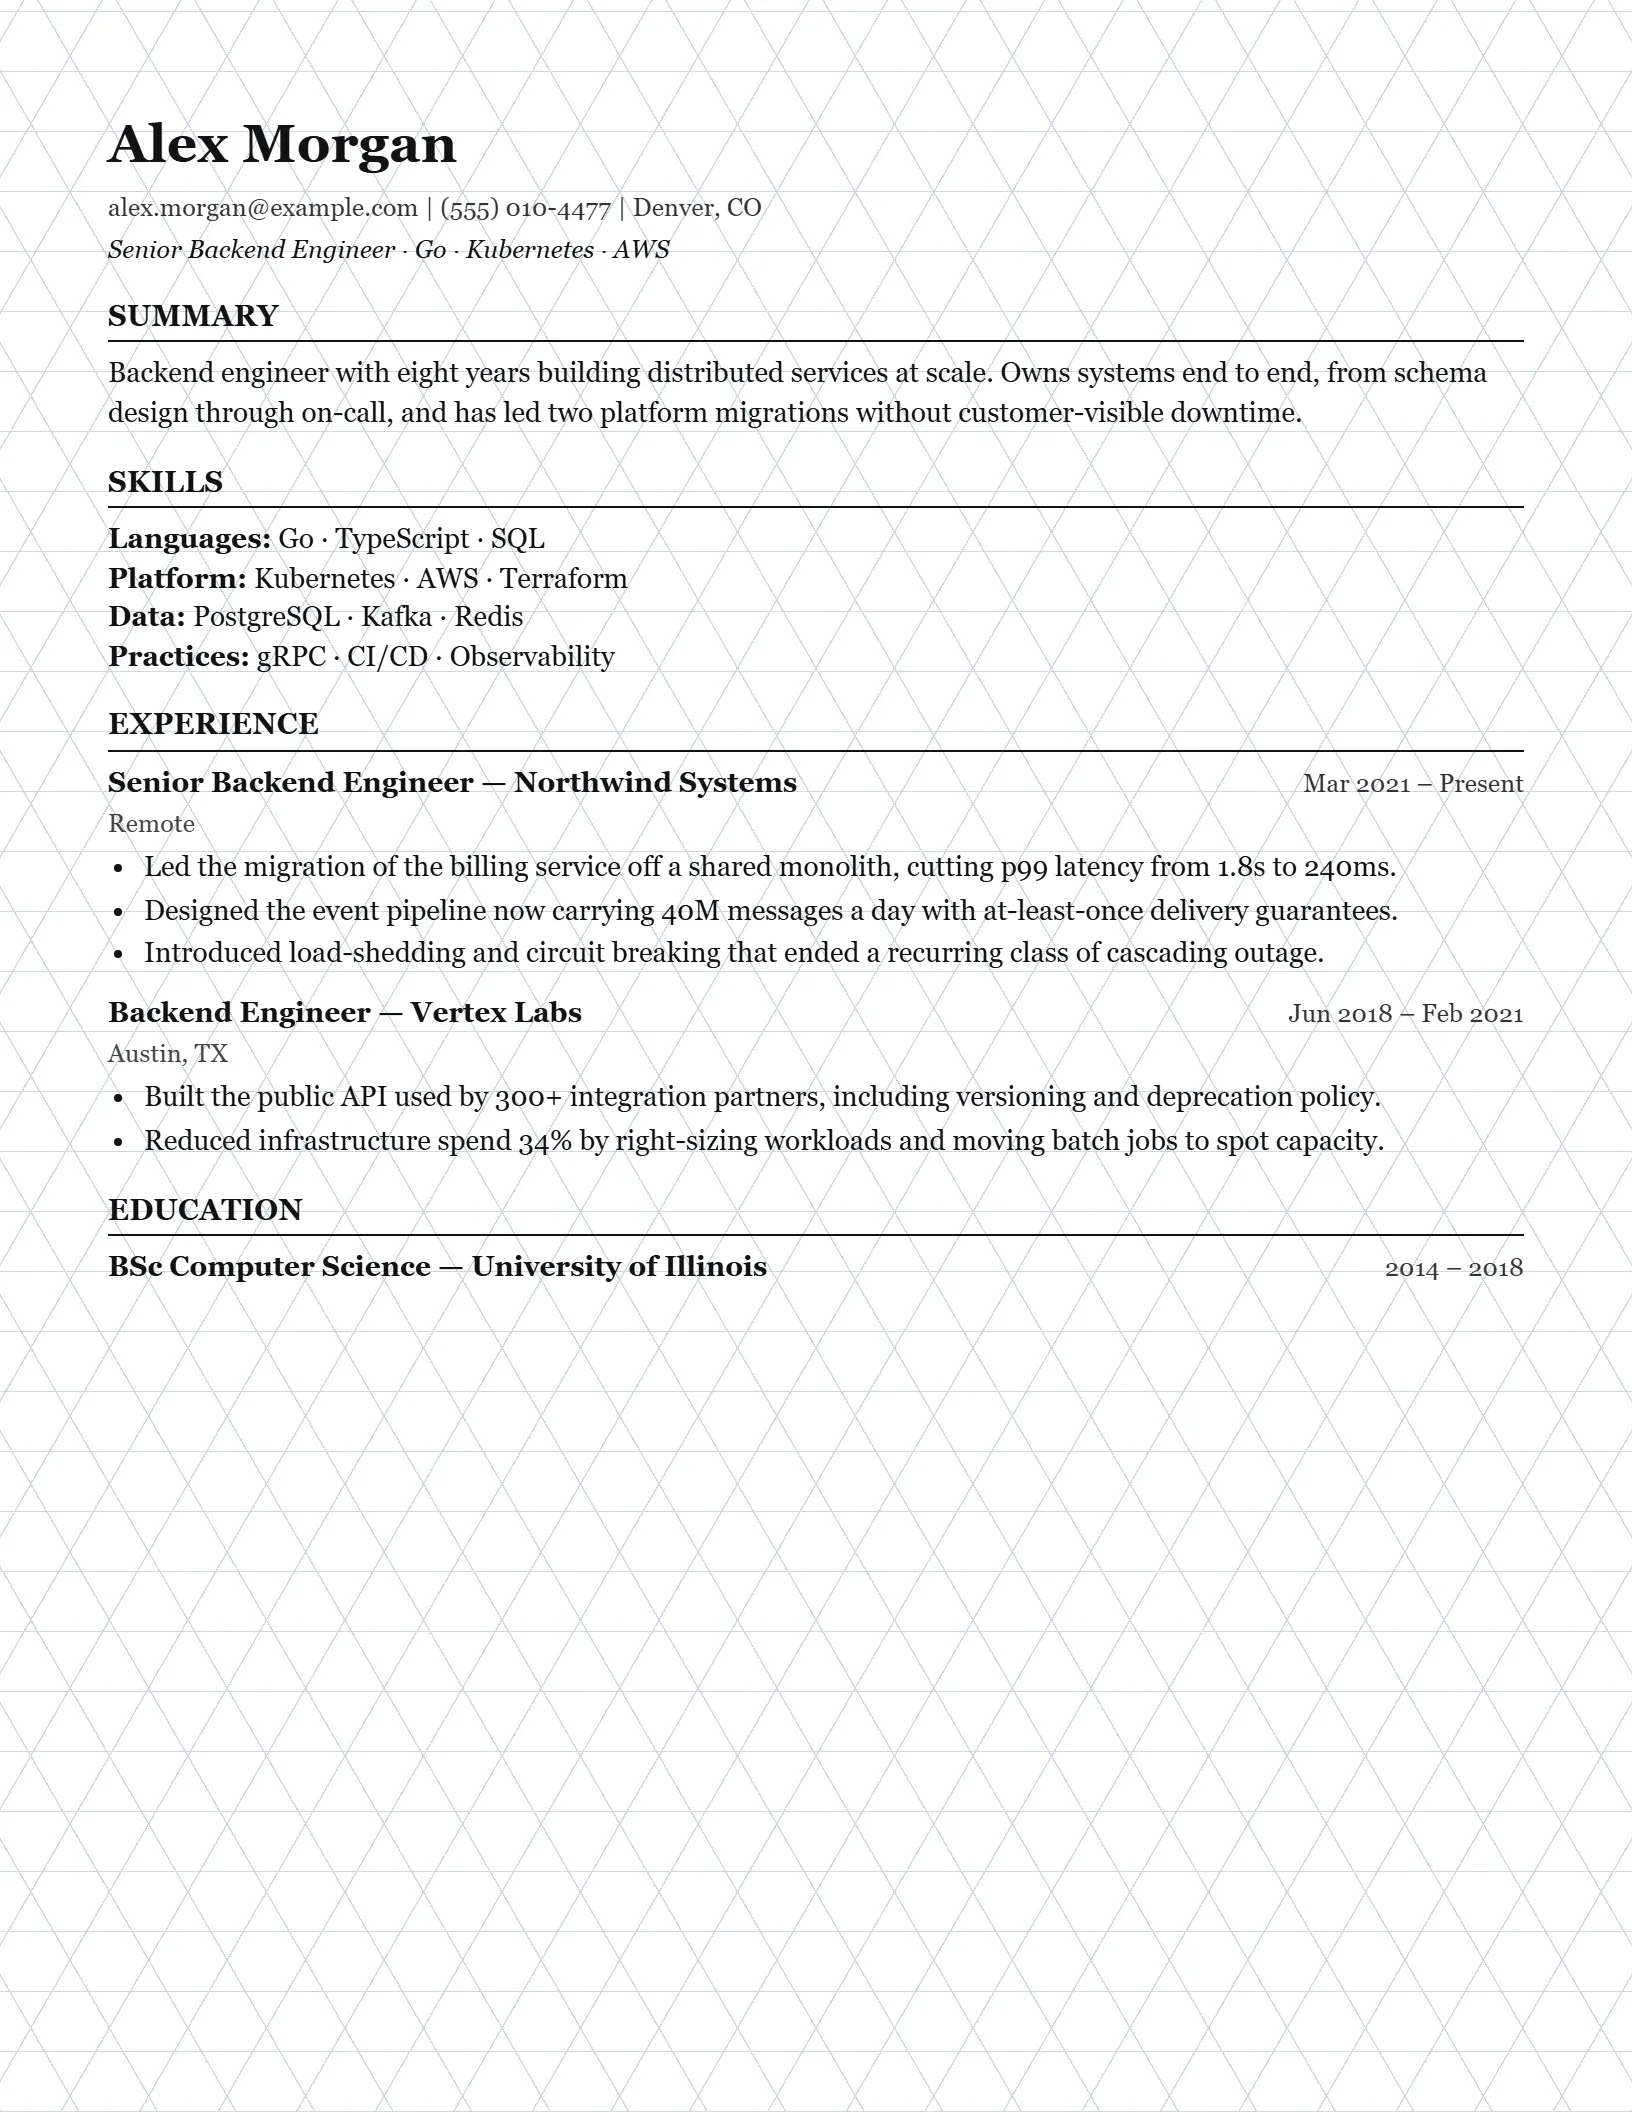
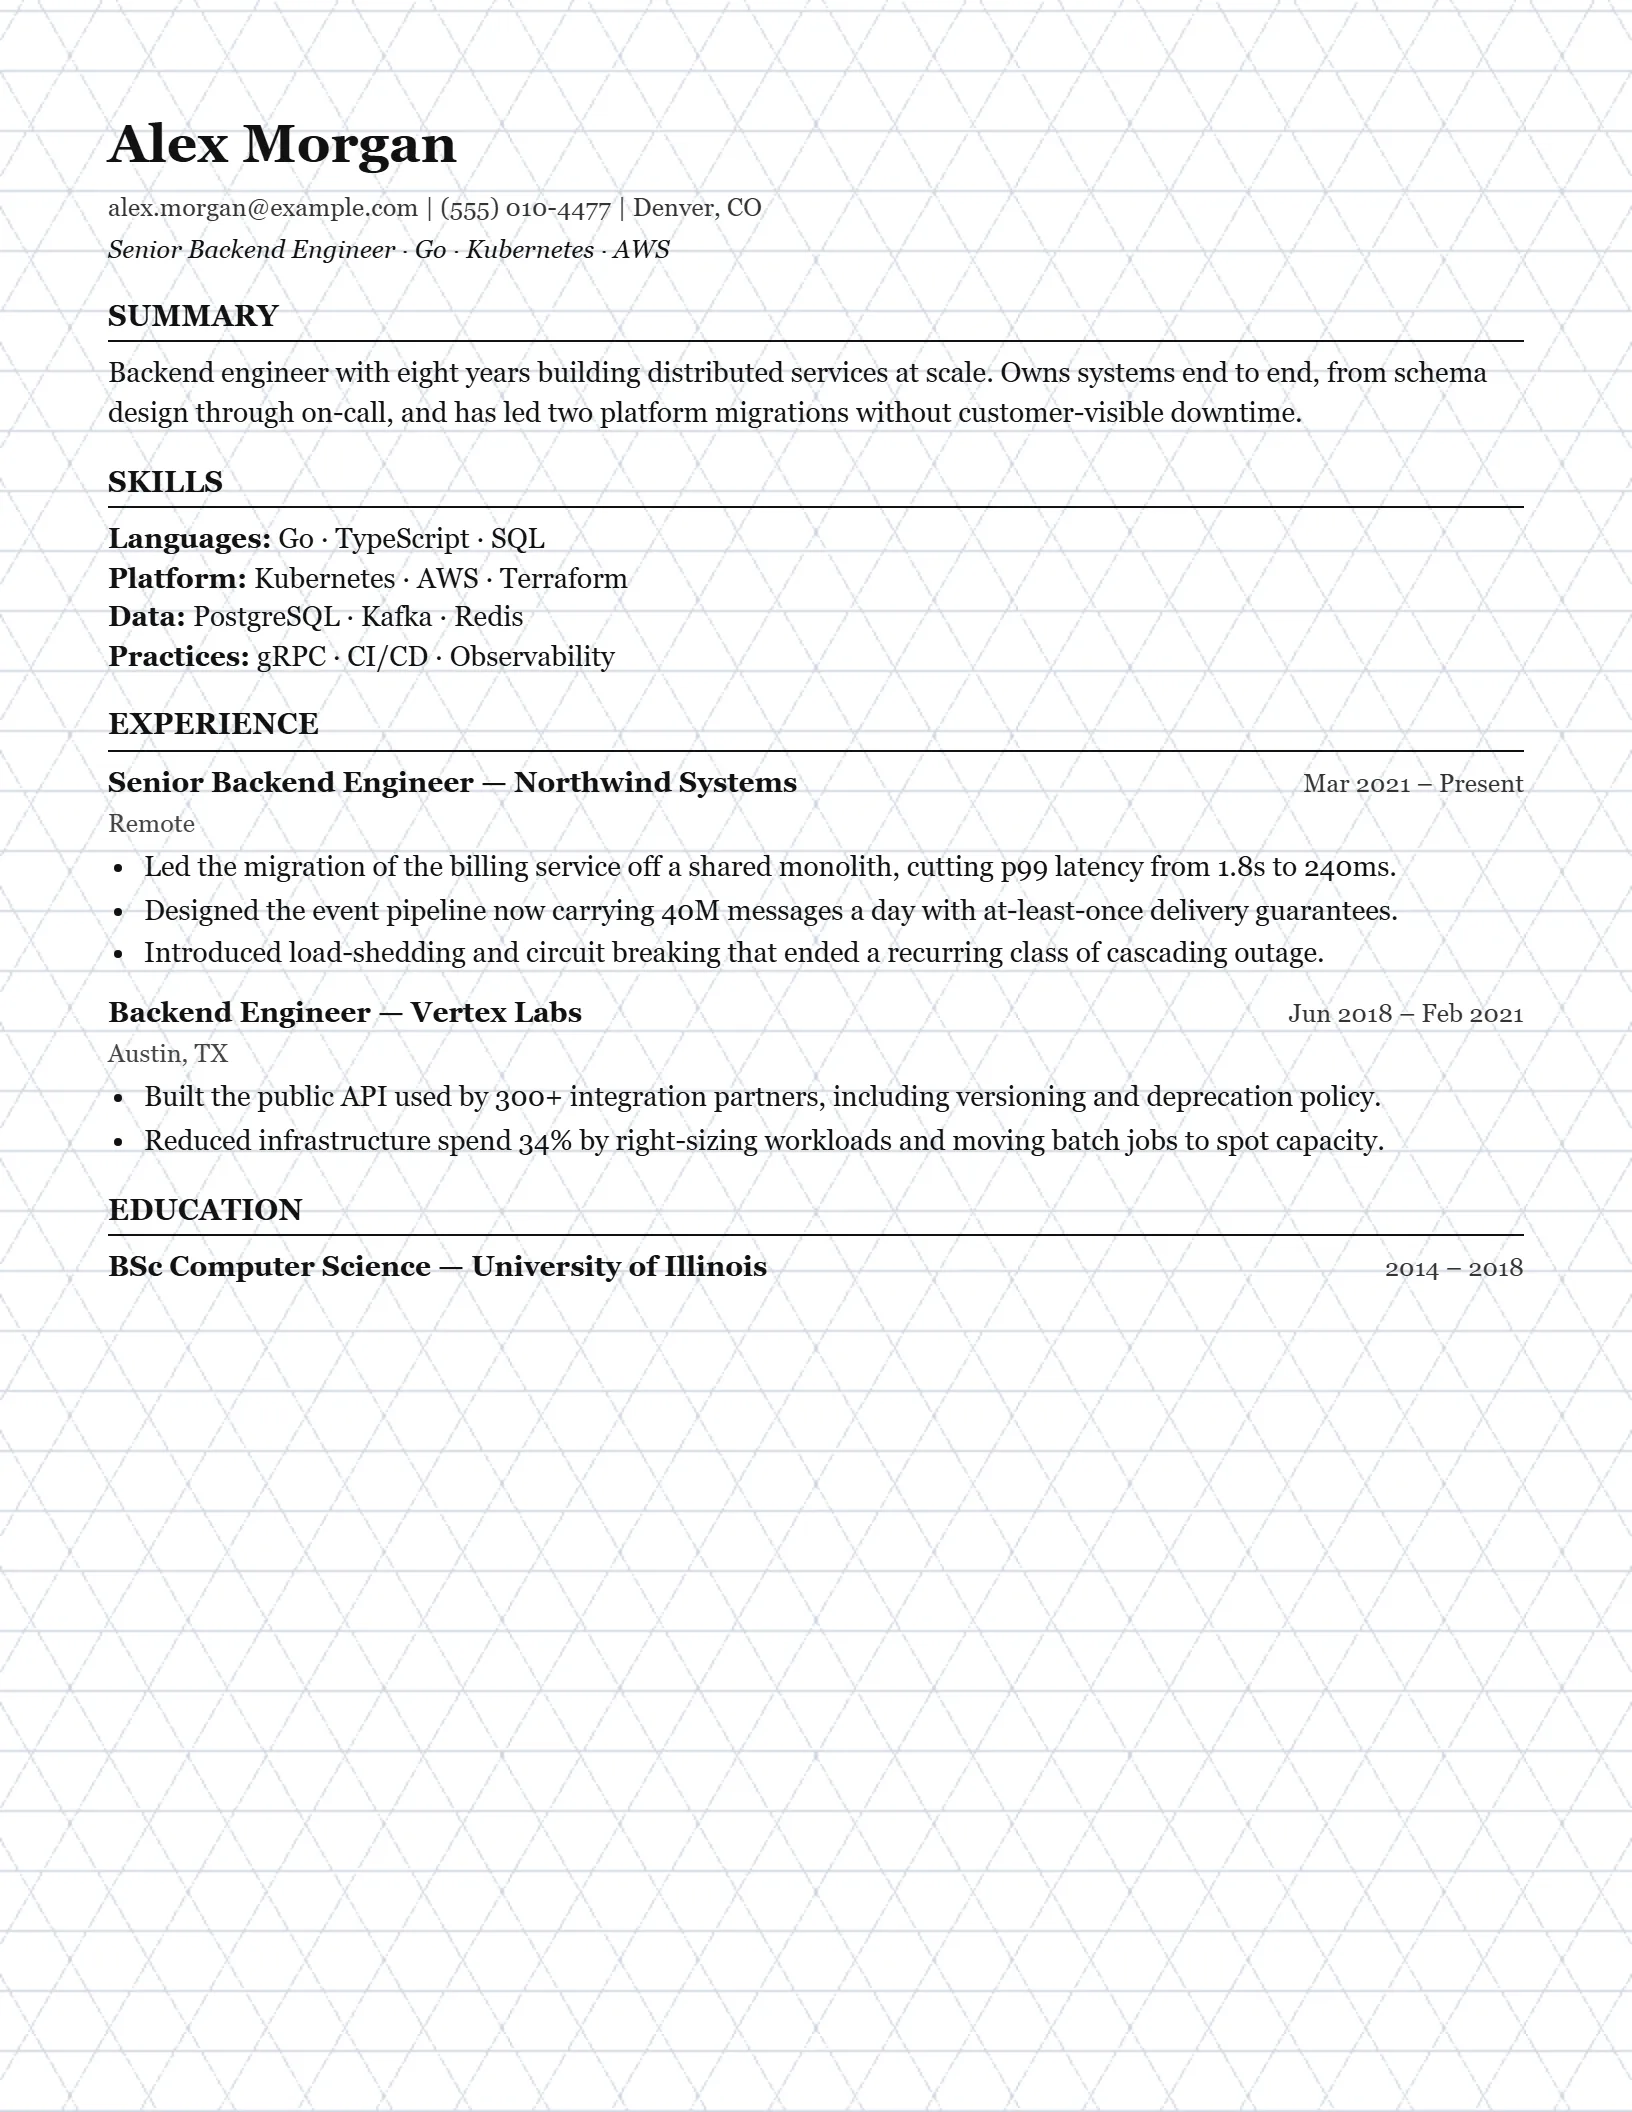
Refactor code structure for improved readability and maintainability

diff --git a/lib/resume-backgrounds.ts b/lib/resume-backgrounds.ts
@@ -12,7 +12,14 @@
  * resumes -- which is exactly what the template default exists to prevent.
  */
 
-export type BackgroundCategory = 'plain' | 'dots' | 'geometric' | 'lines' | 'accent';
+export type BackgroundCategory =
+  | 'plain'
+  | 'tint'
+  | 'dots'
+  | 'geometric'
+  | 'lines'
+  | 'accent'
+  | 'dark';
 
 export interface ResumeBackground {
   key: string;
@@ -23,21 +30,28 @@ export interface ResumeBackground {
 
 export const NO_BACKGROUND = 'none';
 
-/** Ordered so the plain option is always first and the loud ones are last. */
+/**
+ * Ordered so the plain option is always first and the loud ones are last.
+ * Dark closes the list: it is the one group that changes the text colour too.
+ */
 export const CATEGORY_ORDER: BackgroundCategory[] = [
   'plain',
+  'tint',
   'lines',
   'dots',
   'geometric',
   'accent',
+  'dark',
 ];
 
 export const CATEGORY_LABEL: Record<BackgroundCategory, string> = {
   plain: 'Plain',
+  tint: 'Tinted Paper',
   lines: 'Lines',
   dots: 'Dots',
   geometric: 'Geometric',
   accent: 'Accents',
+  dark: 'Dark',
 };
 
 /**

diff --git a/app/components/template-picker.tsx b/app/components/template-picker.tsx
@@ -35,13 +35,15 @@ function IconCheck() {
 }
 
 /** Plain first, loudest last -- the same order the generator's picker uses. */
-const BG_GROUPS = ['plain', 'lines', 'dots', 'geometric', 'accent'] as const;
+const BG_GROUPS = ['plain', 'tint', 'lines', 'dots', 'geometric', 'accent', 'dark'] as const;
 const BG_LABEL: Record<string, string> = {
   plain: 'Plain',
+  tint: 'Tinted Paper',
   lines: 'Lines',
   dots: 'Dots',
   geometric: 'Geometric',
   accent: 'Accents',
+  dark: 'Dark',
 };
 
 export function TemplatePicker({

diff --git a/lib/templates.ts b/lib/templates.ts
@@ -28,7 +28,7 @@ export interface BackgroundDef {
   key: string;
   name: string;
   description: string;
-  category: 'plain' | 'dots' | 'geometric' | 'lines' | 'accent';
+  category: 'plain' | 'tint' | 'dots' | 'geometric' | 'lines' | 'accent' | 'dark';
 }
 
 /**
